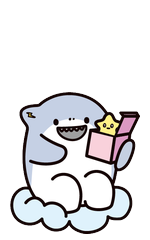
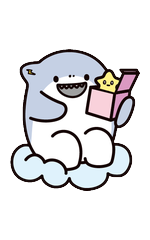
캐릭터 c16 칸 가운데 · c17 칸 위로 (그림 버전 4)
Claude-Session: https://claude.ai/code/session_01FJjmZT1EyKAeLZpJu5MNs4

diff --git a/src/components/ui.tsx b/src/components/ui.tsx
@@ -183,7 +183,7 @@ export function Cover({ tall, children }: { tall?: boolean; children?: ReactNode
 
 export const CHARACTERS = ['c01', 'c02', 'c04', 'c05', 'c06', 'c07', 'c08', 'c09', 'c10', 'c11', 'c12', 'c13', 'c14', 'c15', 'c16', 'c17']; // c12 개구리 · c17 병아리 (원래 c12 한 장에 같이 있던 것 나눔)
 /** 캐릭터 그림 버전: 그림 파일을 바꾸면 숫자를 올림 → 브라우저 · GitHub Pages 에 남은 예전 그림 대신 새 그림을 바로 불러옴 */
-const CHAR_VER = 3;
+const CHAR_VER = 4;
 export const characterSrc = (c: string) => `./characters/${c}.png?v=${CHAR_VER}`;
 
 /** 기본 캐릭터 고를 때 쓰는 목록 — 새 캐릭터를 더해도 이미 쓰던 기본 캐릭터가 안 바뀌게 따로 둠 */
